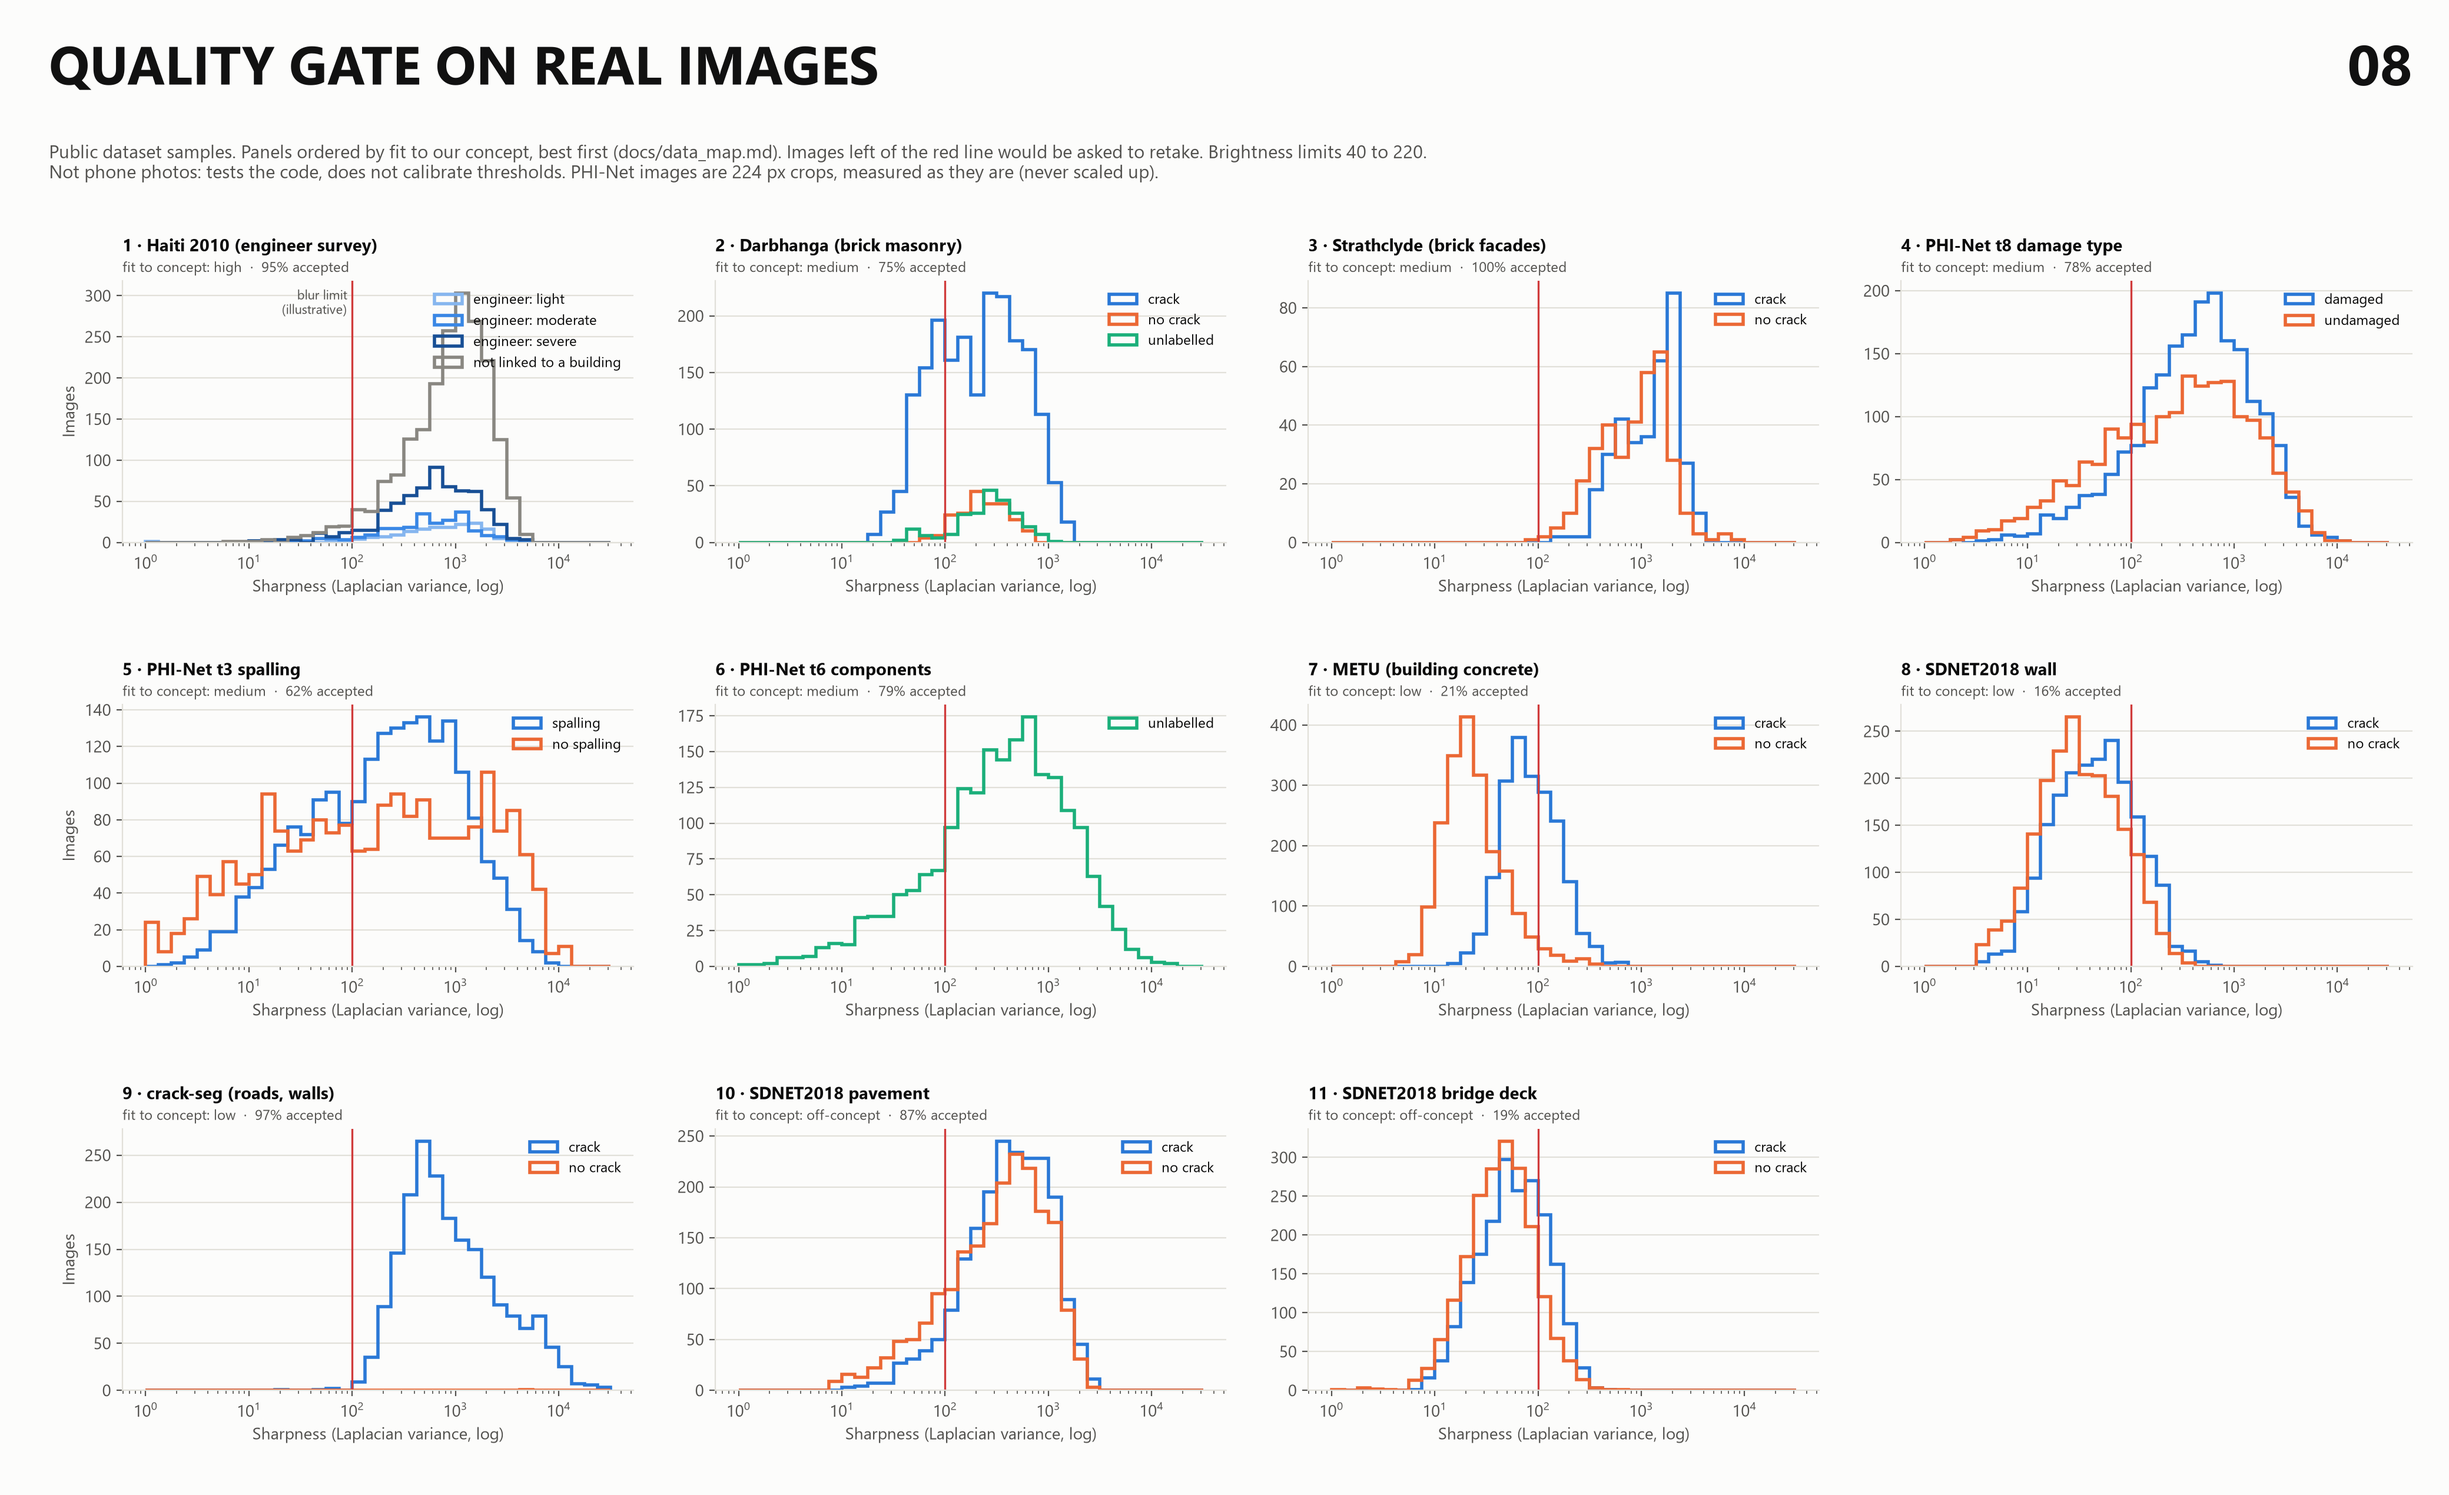
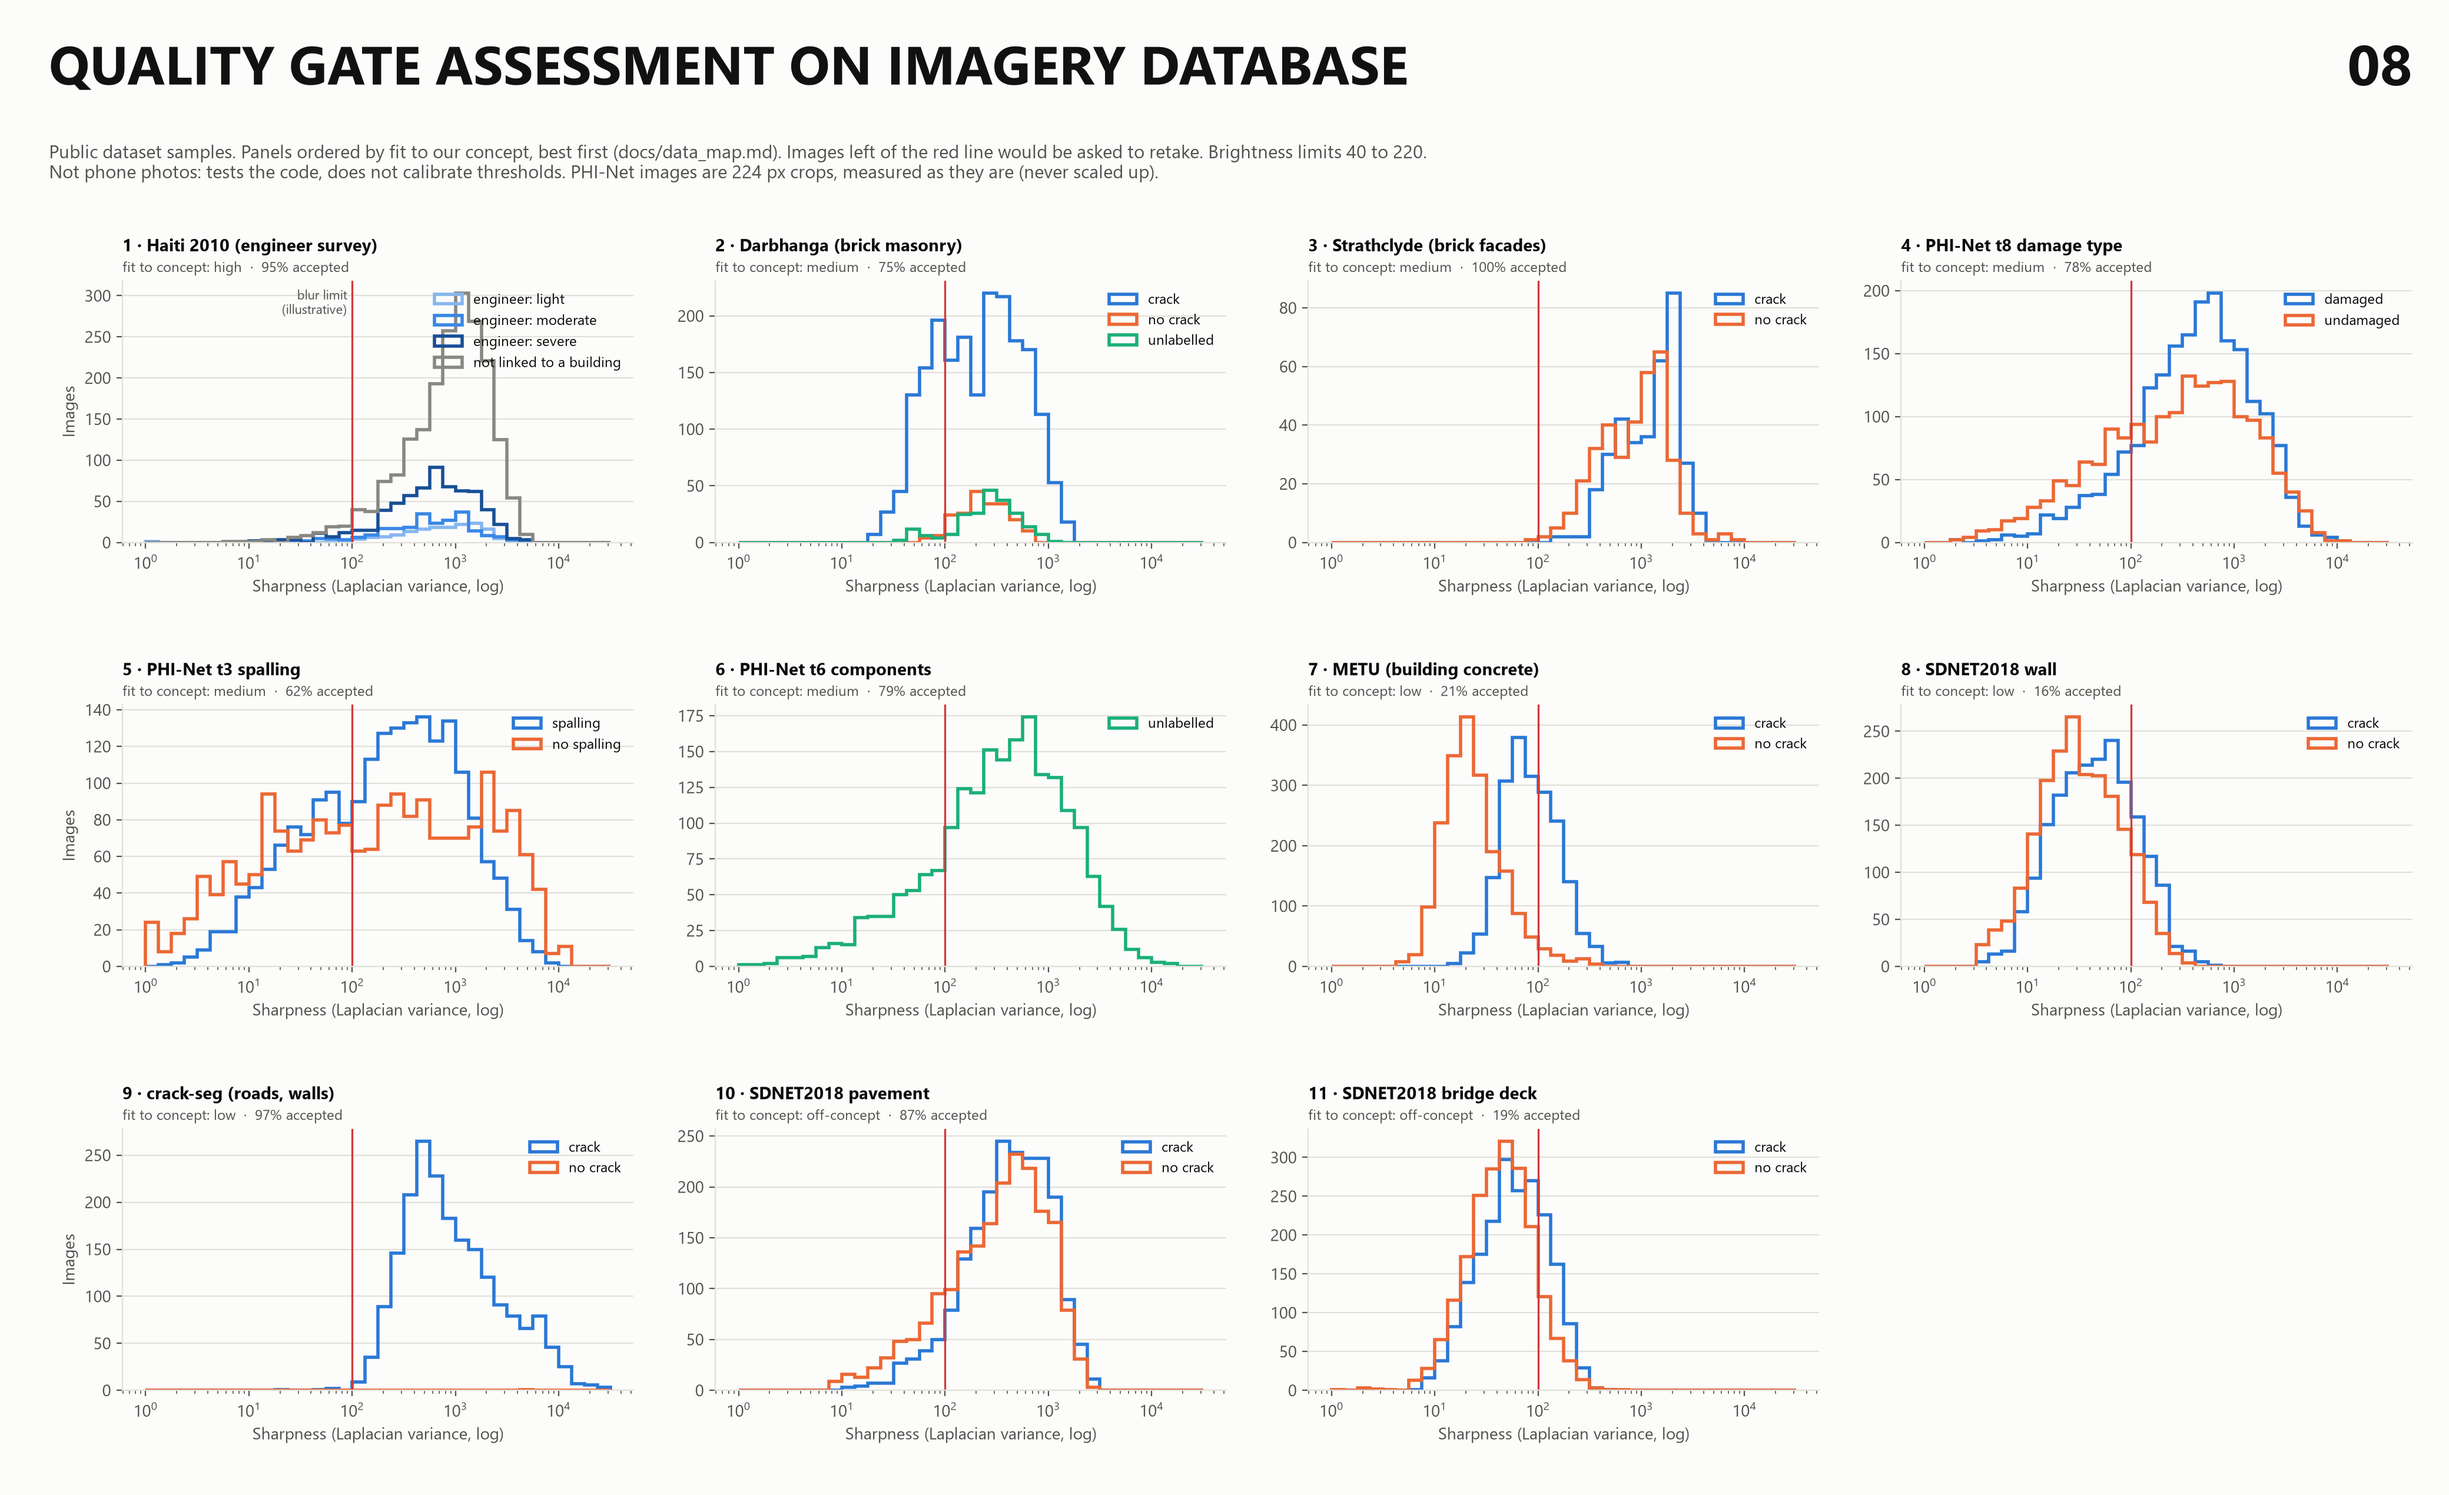
Figure 08 title: QUALITY GATE ASSESSMENT ON IMAGERY DATABASE

Changed region(s): [[0.1562, 0.0311, 0.5938, 0.0622]]

diff --git a/src/experiments/real_data_quality.py b/src/experiments/real_data_quality.py
@@ -211,7 +211,7 @@ def histogram(rows: list[dict], path: Path) -> None:
     for row in axes:
         row[0].set_ylabel("Images")
     width = 5.2 * cols  # title as in the other figures: bold capitals, 38 pt on a 24 in figure
-    fig.text(0.02, 1 - 0.6 / height, "QUALITY GATE ON REAL IMAGES", fontsize=38 * width / 24, weight="bold",
+    fig.text(0.02, 1 - 0.6 / height, "QUALITY GATE ASSESSMENT ON IMAGERY DATABASE", fontsize=38 * width / 24, weight="bold",
              color="#111111", va="center")
     fig.text(0.985, 1 - 0.6 / height, "08", fontsize=40 * width / 24, weight="bold", color="#111111", va="center",
              ha="right")
